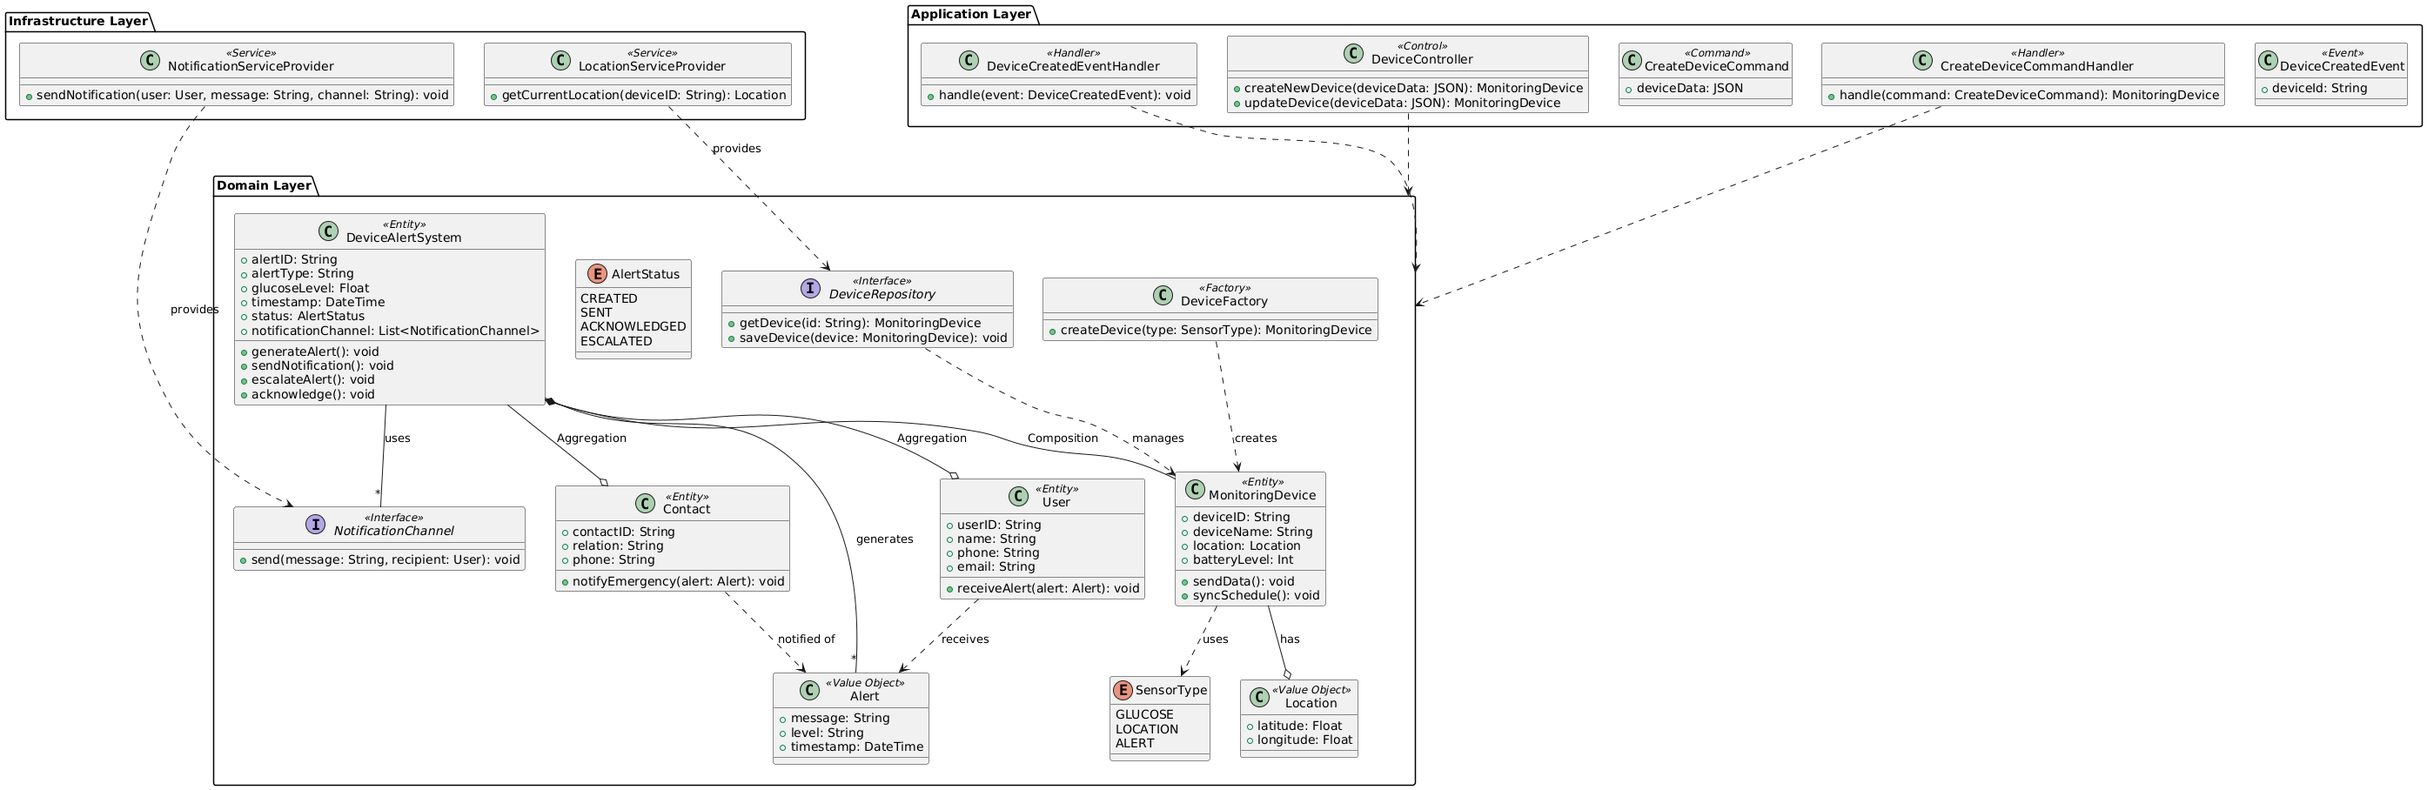
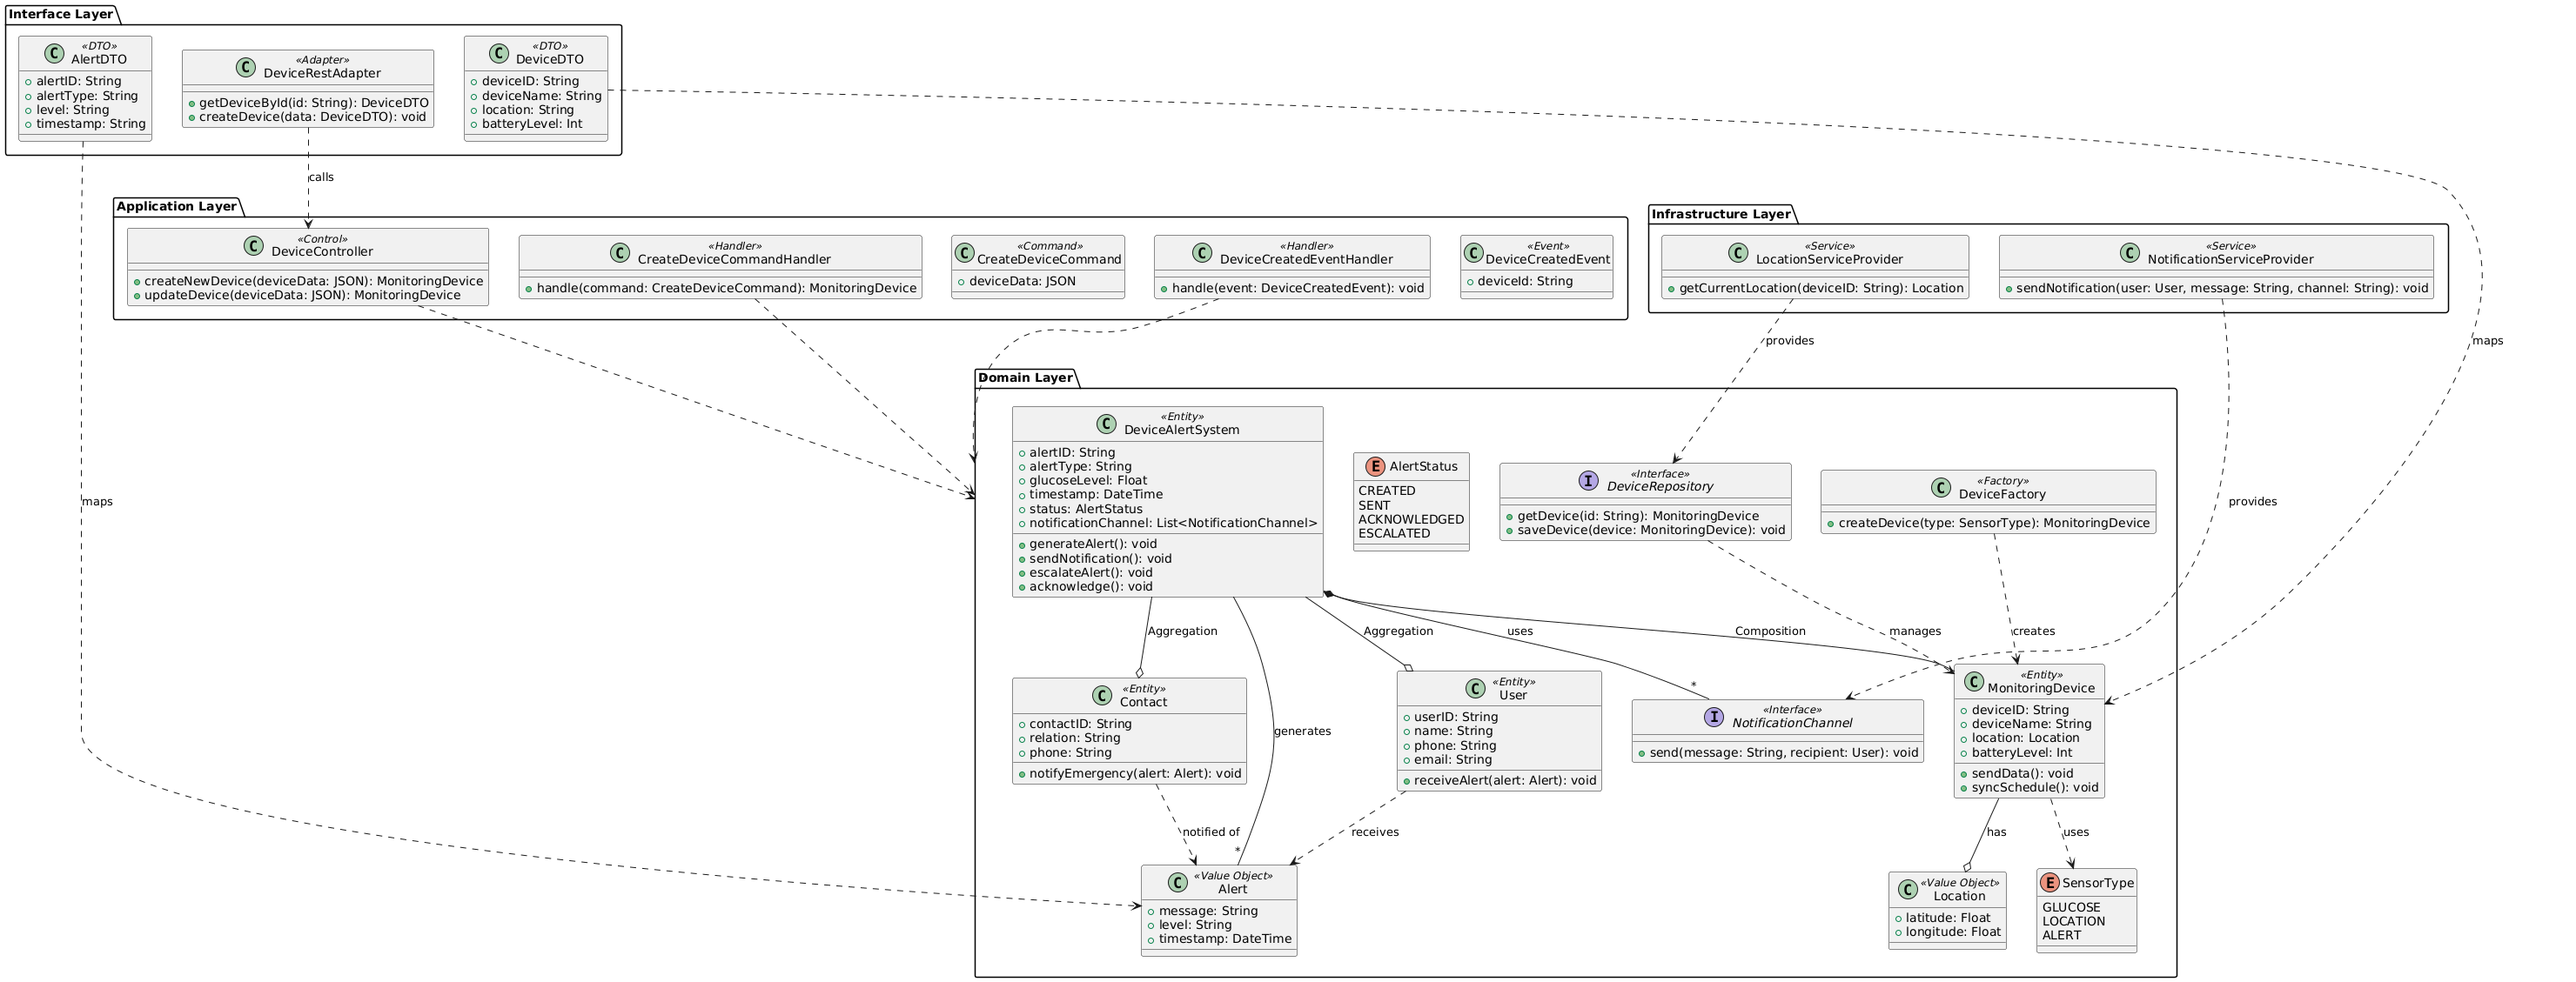
docs: Correction and improvement of the writing of Chapter 4
General update of Chapter 4, including structure, names, and diagrams

diff --git a/docs/chapter-IV.md b/docs/chapter-IV.md
@@ -235,7 +235,7 @@ Este diagrama detalla cómo el sistema Glucova se relaciona con sus usuarios (Su
 Este diagrama descompone el sistema Glucova en sus principales contenedores o componentes, como la Aplicación Web, Aplicación Móvil, API REST, Base de Datos, Servicio de Autenticación, Aplicación Embebida (IoT), Servicio de Notificaciones y Servicio de Logs. Muestra cómo estos contenedores interactúan entre sí y con sistemas externos, proporcionando una visión detallada de la arquitectura interna de Glucova.
 
 <p align="center">
-  <img src="../assets/img/chapter-IV/c4 models/Container Diagram.png" width="1000">
+  <img src="..\assets\img\chapter-IV\c4 models\ContainerDiagram.png" width="1000">
 </p>
 
 
@@ -362,6 +362,9 @@ En el núcleo del sistema Glucova, la clase central identificada es `DeviceAlert
   - Dispone de una conexión activa a Internet para la transmisión y sincronización de datos.
 
 Este diseño asegura que el dispositivo opere de manera eficiente dentro del ecosistema de Glucova, facilitando en tiempo real del estado de salud del paciente al respectivo encargado.
+
+<img src="../assets/img/chapter-IV/Domain Layer.png" width="1000">
+
 #### 4.2.1.2. Interface Layer
 ##### Entites
 - DeviceAlertSystem: Representa la alerta del monitor de diabetes
@@ -374,6 +377,9 @@ Este diseño asegura que el dispositivo opere de manera eficiente dentro del eco
 - DeviceFactory: Fabrica para crear instancias de dispositivos.
 ##### Interfaces
 - DeviceRepository: Interfaz para la gestión de datos.
+
+<img src="../assets/img/chapter-IV/Interface Layer.png" width="1000">
+
 
 #### 4.2.1.3. Application Layer
 En esta sección se presentan las interfaces serán consumidas por la aplicación cliente para realizar cambios relacionados a los datos de la pulsera
@@ -392,7 +398,33 @@ En esta sección presentamos las clases que se encargan de conectar con servicio
 
 #### 4.2.1.5. Bounded Context Software Architecture Component Level Diagrams
 
+- ###### Glucova - Access Context
+<p align="center">
+  <img src="../assets/img/chapter-IV/c4 models/[Component] Glucova - Access Context.png" width="1000">
+</p>
+
+- ###### Glucova - Alerts Context
+<p align="center">
+  <img src="../assets/img/chapter-IV/c4 models/[Component] Glucova - Alerts Context.png" width="1000">
+</p>
+
+- ###### Glucova - Configurations Context
+<p align="center">
+  <img src="../assets/img/chapter-IV/c4 models/[Component] Glucova - Configurations Context.png" width="1000">
+</p>
+
+- ###### Glucova - Records Context.png
+<p align="center">
+  <img src="../assets/img/chapter-IV/c4 models/[Component] Glucova - Records Context.png" width="1000">
+</p>
+
+- ###### Glucova - Schedules Context
+<p align="center">
+  <img src="../assets/img/chapter-IV/c4 models/[Component] Glucova - Schedules Context.png" width="1000">
+</p>
+
 #### 4.2.1.6. Bounded Context Software Architecture Code Level Diagrams
+<img src="../assets/img/chapter-IV/Code Diagram.png" width="1000">
 
 ##### 4.2.1.6.1. Bounded Context Domain Layer Class Diagrams
 A continuación, presentamos el diagrama de clases del dominio considerado para el **DeviceAlertSystem**
